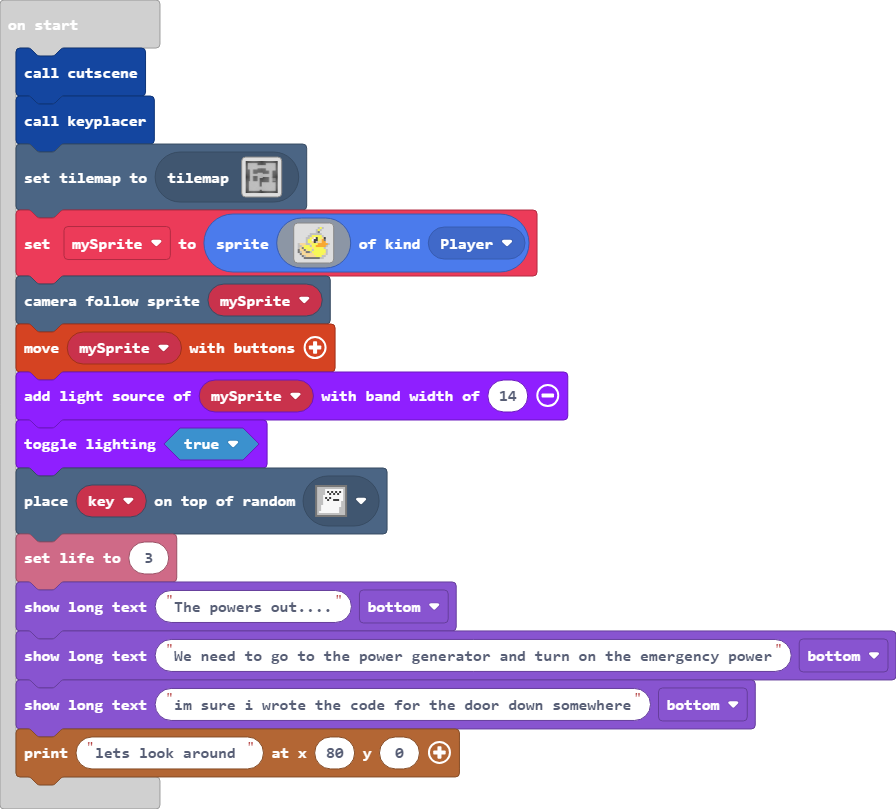
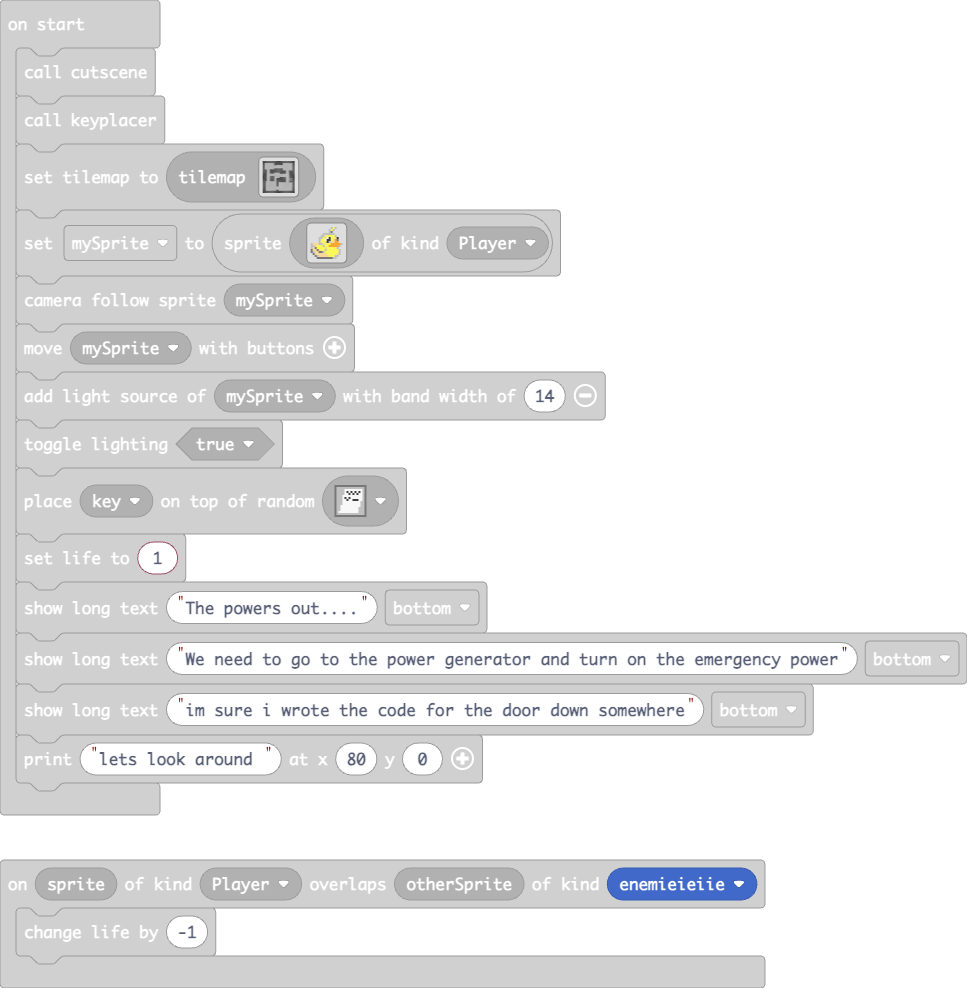
Update main.blocks, main.ts

diff --git a/main.ts b/main.ts
@@ -63,7 +63,7 @@ function cutscene () {
     sprites.destroy(meteor)
     sprites.destroy(spaceship)
 }
-sprites.onOverlap(SpriteKind.Player, SpriteKind.Enemy, function (sprite, otherSprite) {
+sprites.onOverlap(SpriteKind.Player, SpriteKind.enemieieiie, function (sprite, otherSprite) {
     info.changeLifeBy(-1)
 })
 let pin = 0
@@ -85,7 +85,7 @@ controller.moveSprite(mySprite)
 multilights.addLightSource(mySprite, 14)
 multilights.toggleLighting(true)
 tiles.placeOnRandomTile(key, assets.tile`Tile0`)
-info.setLife(3)
+info.setLife(1)
 game.showLongText("The powers out....", DialogLayout.Bottom)
 game.showLongText("We need to go to the power generator and turn on the emergency power", DialogLayout.Bottom)
 game.showLongText("im sure i wrote the code for the door down somewhere", DialogLayout.Bottom)
